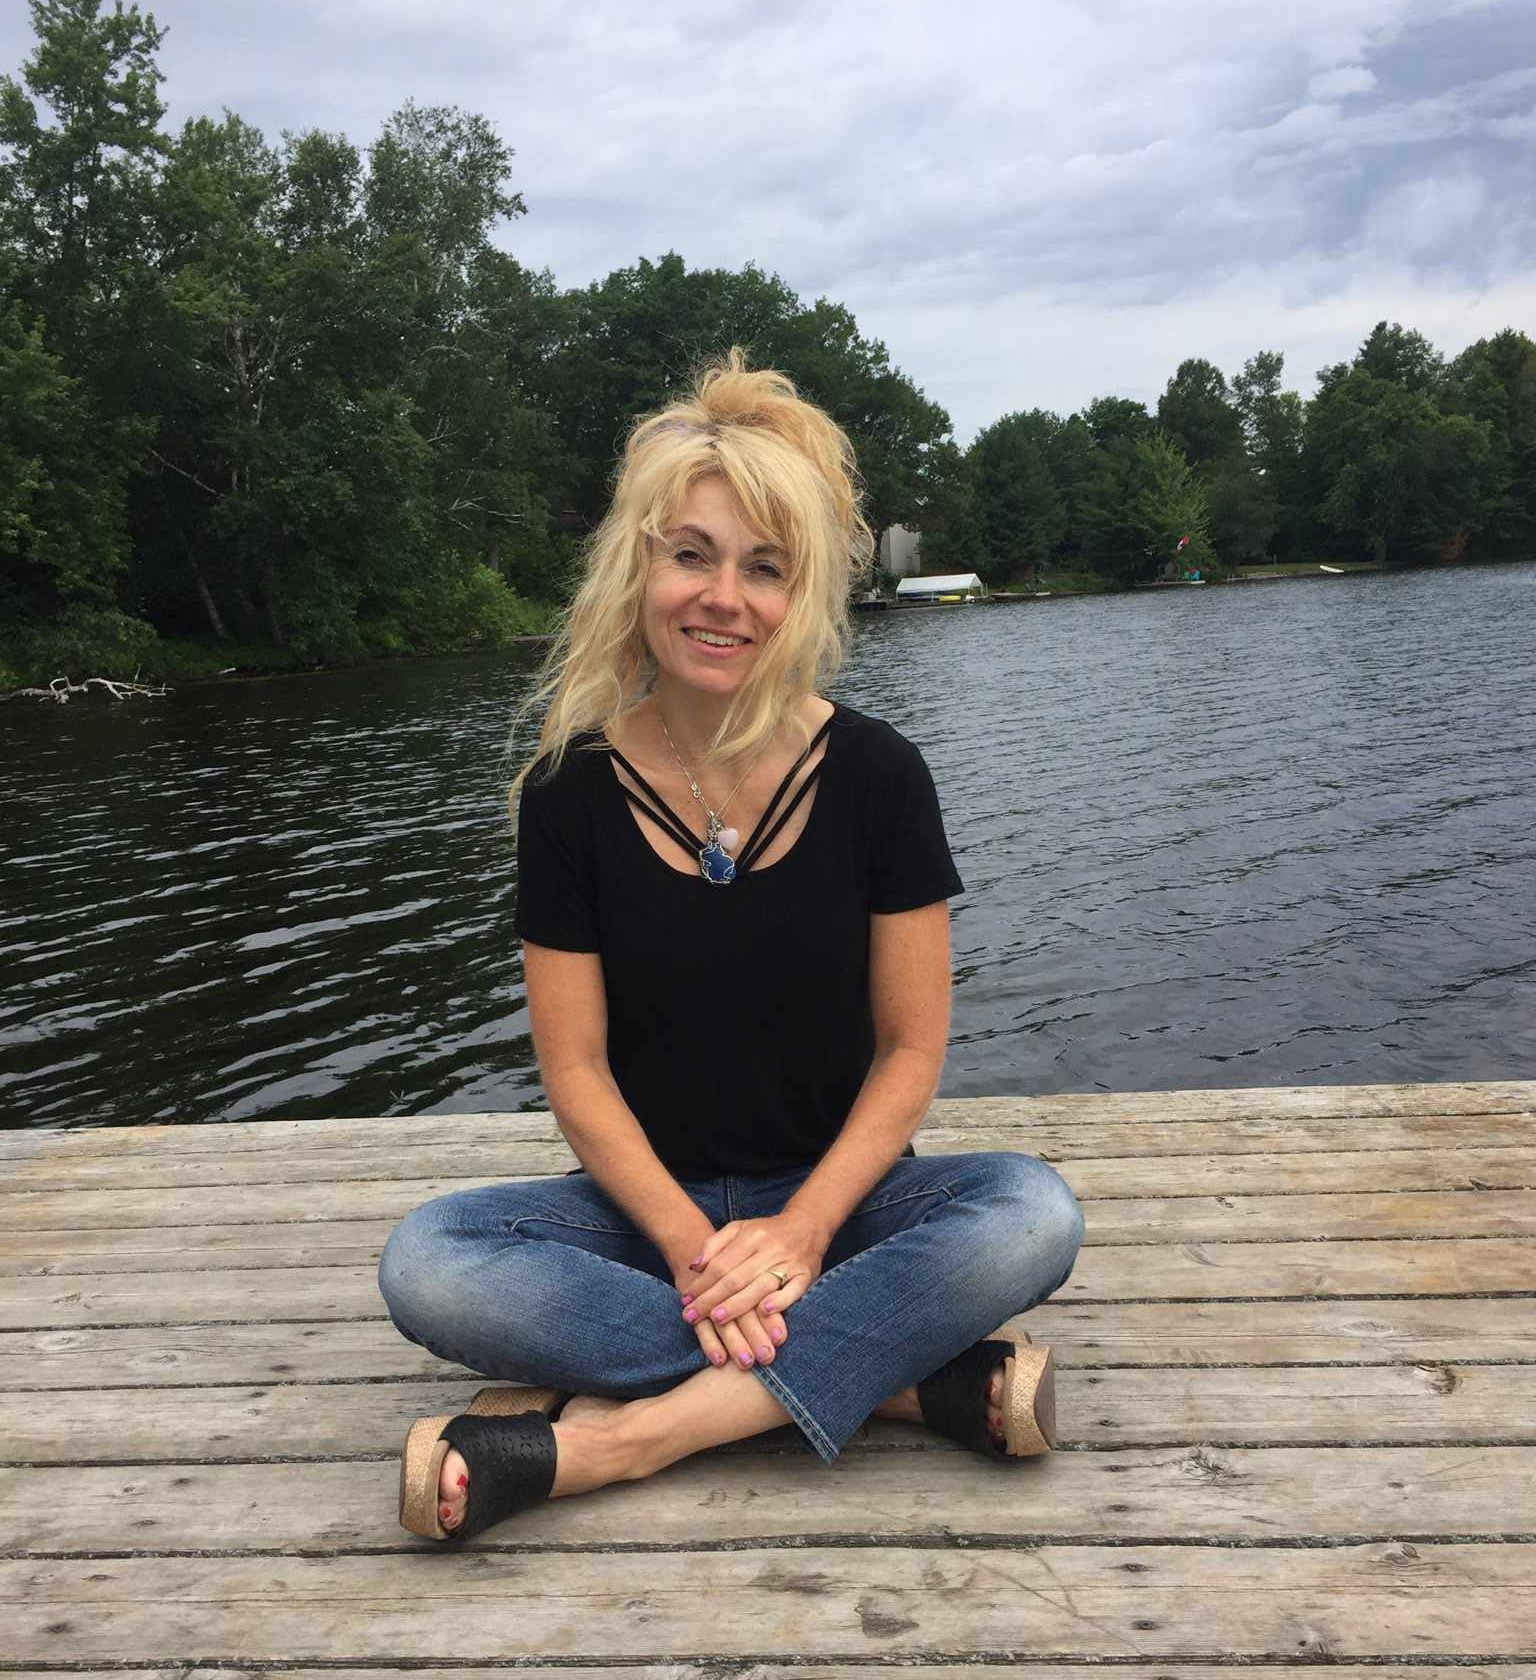
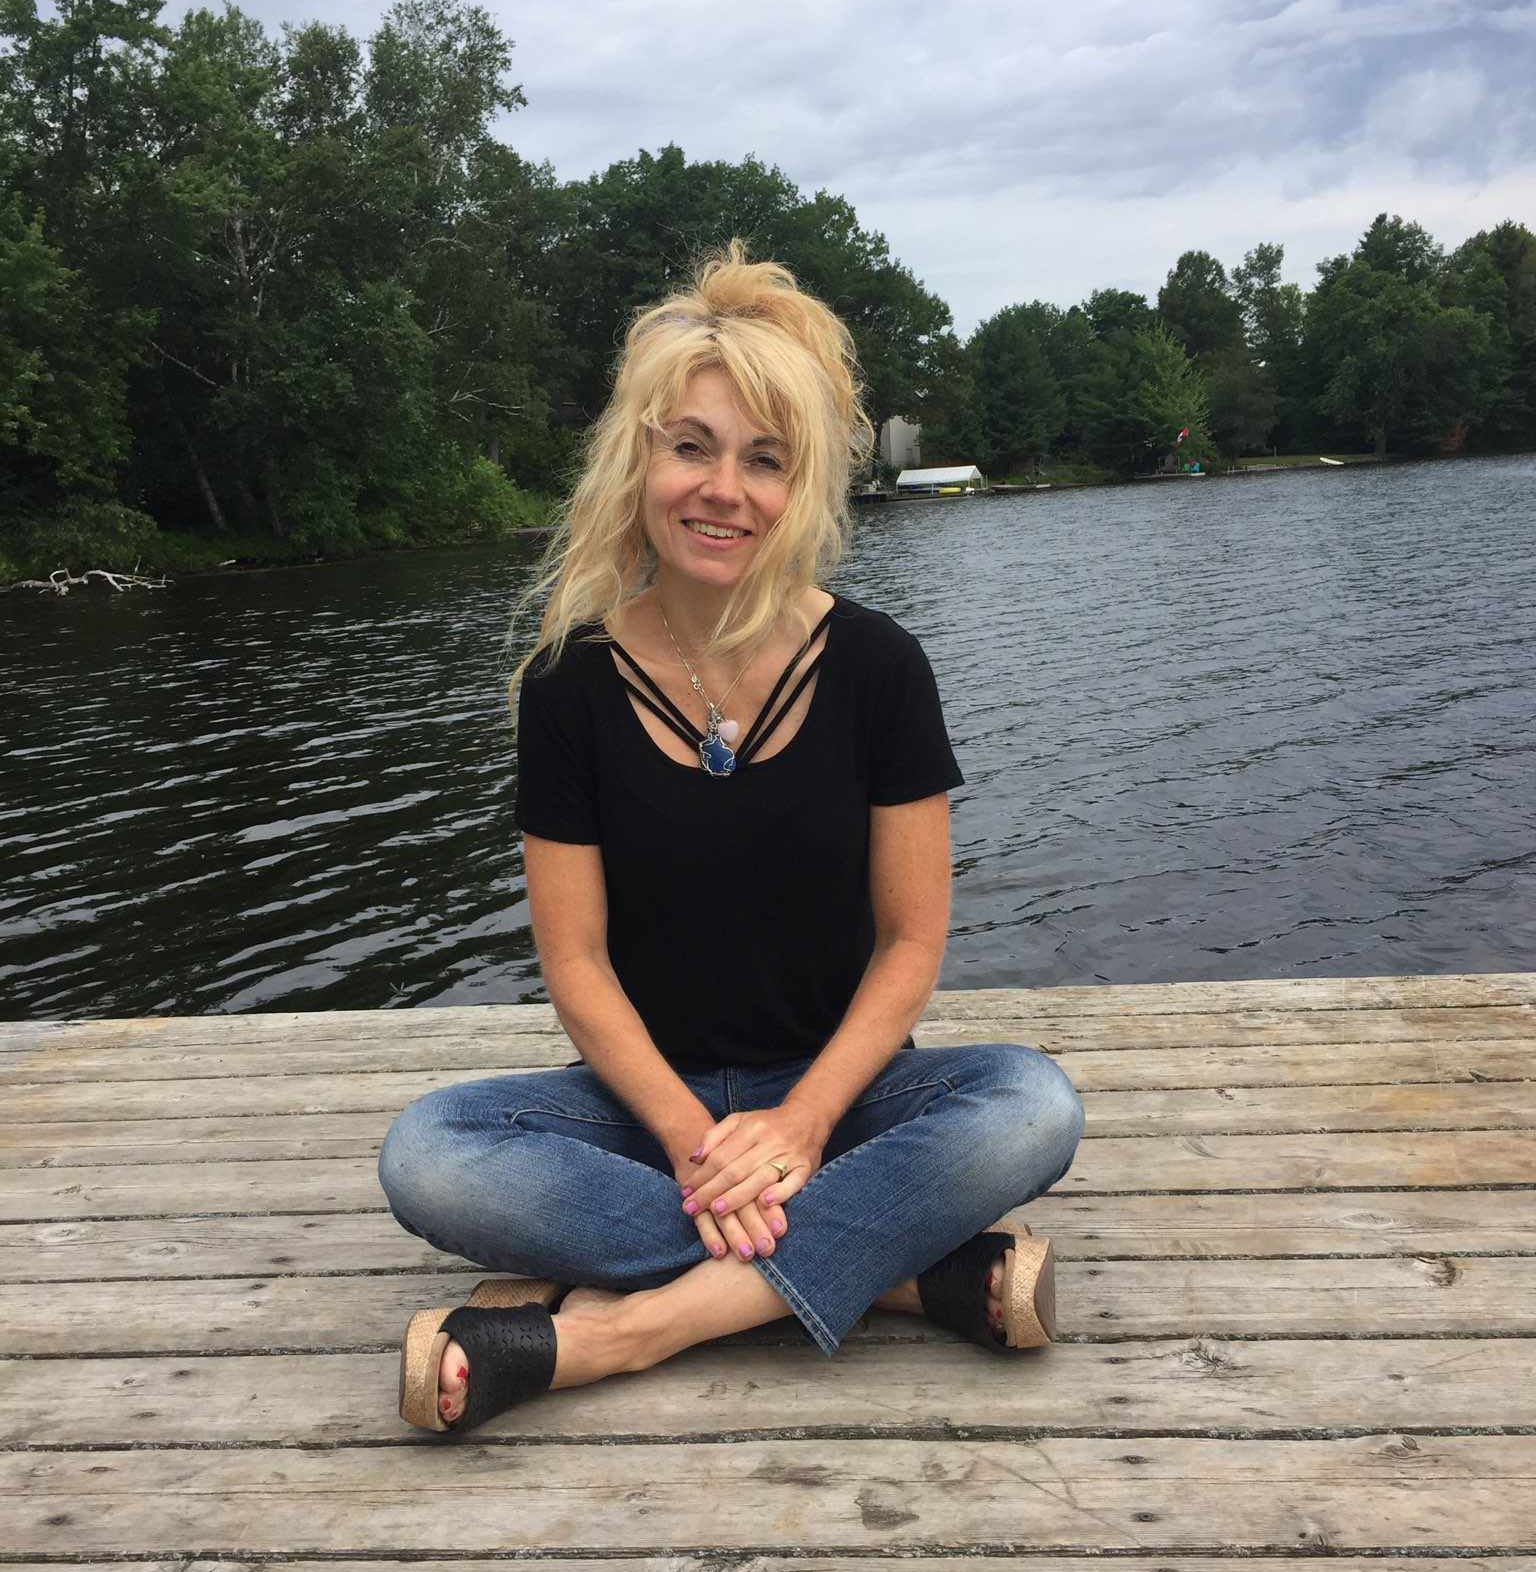
requested edits

diff --git a/index.html b/index.html
@@ -18,6 +18,7 @@
 
   <!-- Custom styles for this template -->
   <link href="css/modern-business.css" rel="stylesheet">
+  <link href="vendor/simple-line-icons/css/simple-line-icons.css" rel="stylesheet">
 
 </head>
 
@@ -37,82 +38,34 @@
                 <a class="nav-link" href="cd.html"  >My CD</a>
               </li>
           <li class="nav-item">
-            <a class="nav-link" href="about.html" >About</a>
-          </li>
-          <li class="nav-item">
             <a class="nav-link" href="events.html" >Events</a>
           </li>
           <li class="nav-item">
-            <a class="nav-link" href="contact.html" >Contact</a>
+            <a class="nav-link" href="video.html" >Videos</a>
           </li>
-          <li class="nav-item dropdown">
+         <!-- <li class="nav-item dropdown">
             <a class="nav-link dropdown-toggle" href="#" id="navbarDropdownBlog" data-toggle="dropdown" aria-haspopup="true" aria-expanded="false" >
               Media
             </a>
             <div class="dropdown-menu dropdown-menu-right" aria-labelledby="navbarDropdownBlog">
-              <a class="dropdown-item" href="video.html">Video</a>
-              <a class="dropdown-item" href="pictures.html">Pictures</a>
-            </div>
-          </li> 
-            <!--
-          
-          <li class="nav-item dropdown">
-            <a class="nav-link dropdown-toggle" href="#" id="navbarDropdownBlog" data-toggle="dropdown" aria-haspopup="true" aria-expanded="false">
-              Other Pages
-            </a>
-            <div class="dropdown-menu dropdown-menu-right" aria-labelledby="navbarDropdownBlog">
-              <a class="dropdown-item" href="full-width.html">Full Width Page</a>
-              <a class="dropdown-item" href="sidebar.html">Sidebar Page</a>
-              <a class="dropdown-item" href="faq.html">FAQ</a>
-              <a class="dropdown-item" href="404.html">404</a>
-              <a class="dropdown-item" href="pricing.html">Pricing Table</a>
+              <a class="dropdown-item" href="video.html">Videos</a>
+             <a class="dropdown-item" href="pictures.html">Pictures</a>
             </div>
           </li> -->
+          
         </ul>
       </div>
     </div>
   </nav>
 
   <header>
-    <div id="carouselExampleIndicators" class="carousel slide" data-ride="carousel">
-      <ol class="carousel-indicators">
-        <li data-target="#carouselExampleIndicators" data-slide-to="0" class="active"></li>
-        <li data-target="#carouselExampleIndicators" data-slide-to="1"></li>
-        <li data-target="#carouselExampleIndicators" data-slide-to="2"></li>
-      </ol>
-      <div class="carousel-inner" role="listbox">
-        <!-- Slide One - Set the background image for this slide in the line below -->
-        <div class="carousel-item active" style="background-image: url('IMG/AnnaPhotoshootEdit (66).jpg')">
-          <!--<div class="carousel-caption d-none d-md-block">
-            <h3>First Slide</h3>
-            <p>This is a description for the first slide.</p>
-          </div> -->
-        </div>
-        <!-- Slide Two - Set the background image for this slide in the line below -->
-        <div class="carousel-item" style="background-image: url('IMG/AnnaPhotoshoot (10).jpg')">
-          <div class="carousel-caption d-none d-md-block">
-            <!--<h3>Second Slide</h3>
-            <p>This is a description for the second slide.</p>-->
-          </div>
-        </div>
-        <!-- Slide Three - Set the background image for this slide in the line below -->
-        <div class="carousel-item" style="background-image: url('IMG/AnnaPhotoshoot (86).jpg')">
-          <div class="carousel-caption d-none d-md-block">
-           <!-- <h3>Third Slide</h3> 
-            <p>This is a description for the third slide.</p>-->
-          </div>
-        </div>
+    <pic style="display: flex; justify-content: center;">
+      <div class="col-lg-8">
+        <img class="img-fluid rounded mb-4" src="IMG/AnnaDockCropped.jpg" alt="">
       </div>
-      <a class="carousel-control-prev" href="#carouselExampleIndicators" role="button" data-slide="prev">
-        <span class="carousel-control-prev-icon" aria-hidden="true"></span>
-        <span class="sr-only">Previous</span>
-      </a>
-      <a class="carousel-control-next" href="#carouselExampleIndicators" role="button" data-slide="next">
-        <span class="carousel-control-next-icon" aria-hidden="true"></span>
-        <span class="sr-only">Next</span>
-      </a>
-    </div>
-  </header>
+    </pic>
+    <!-- /.row -->
+  </header> 
 
   <!-- Page Content -->
   <div class="container">
@@ -125,16 +78,16 @@
         <div class="card h-100">
           <h4 class="card-header" style="font-family:'Great Vibes', Helvetica, sans-serif;"> <font size="200%"> Kirtan </font></h4>
           <div class="card-body">
-            <p class="card-text">Kirtan is a musical form of meditation call and response chanting the chants are in the Ancient language of sanskrit ,  some of these chants have been uttered or sung for thousands of years. The sacred chants bring deep healing, open our hearts, and bring deep peace and stillness within. </p>
+            <p class="card-text">Kirtan is a musical form of meditation call and response chanting. The chants are in the Ancient language of sanskrit ,  some of these chants have been uttered or sung for thousands of years. The sacred chants bring deep healing, open our hearts, and bring deep peace and stillness within. </p>
           </div>
          
         </div>
       </div>
       <div class="col-lg-4 mb-4">
         <div class="card h-100">
-          <h4 class="card-header" style="font-family:'Great Vibes', Helvetica, sans-serif;"> <font size="200%">Yoga </font> </h4>
+          <h4 class="card-header" style="font-family:'Great Vibes', Helvetica, sans-serif;"> <font size="200%">Anna </font> </h4>
           <div class="card-body">
-            <p class="card-text">Lorem ipsum dolor sit amet, consectetur adipisicing elit. Reiciendis ipsam eos, nam perspiciatis natus commodi similique totam consectetur praesentium molestiae atque exercitationem ut consequuntur, sed eveniet, magni nostrum sint fuga.</p>
+            <p class="card-text">Anna began her musical career in her late teens. Singing with the band "The Presence". She moved to Canada at the age of 23 and sang with various bands performing at clubs and festivals. At the age of 29 she attended a yoga retreat in the Bahamas where she was introduced to kirtan. She fell in love with it and upon returning to Canada was guided to her spiritual teacher Guru Mangala Amshumati.</p>
           </div>
           
         </div>
@@ -162,10 +115,17 @@
   <!-- Footer -->
   <footer class="py-5 bg-light">
     <div class="container">
-      <p class="m-0 text-center text-white">Copyright &copy; Anna Lisa Leeming 2019</p>
+        <pic style="display: flex; justify-content: center;">
+            <div class="col-lg-20">
+                <a href="mailto:annaleeming@hotmail.com"><img class="img-fluid rounded mb-4" src="IMG/emailcircleIcon.png" width= "100" alt=""></a> 
+                <a href="tel:905-717-7568"><img class="img-fluid rounded mb-4" src="IMG/Phoneiconfinal.png" width= "100" alt=""></a> 
+            </div>
+          </pic>
+            <p class="m-0 text-center text-white">Copyright &copy; Anna Lisa Leeming 2019</p>
     </div>
     <!-- /.container -->
   </footer>
+
 
   <!-- Bootstrap core JavaScript -->
   <script src="vendor/jquery/jquery.min.js"></script>

diff --git a/events.html b/events.html
@@ -35,16 +35,13 @@
         <li class="nav-item">
               <a class="nav-link" href="cd.html" >My CD</a>
         </li>
-        <li class="nav-item">
-          <a class="nav-link" href="about.html" >About</a>
-        </li>
         <li class="nav-item active">
           <a class="nav-link" href="events.html" >Events</a>
         </li>
         <li class="nav-item">
-          <a class="nav-link" href="contact.html" >Contact</a>
+          <a class="nav-link" href="video.html" >Videos</a>
         </li>
-        <li class="nav-item dropdown">
+        <!--<li class="nav-item dropdown">
           <a class="nav-link dropdown-toggle" href="#" id="navbarDropdownBlog" data-toggle="dropdown" aria-haspopup="true" aria-expanded="false" >
             Media
           </a>
@@ -52,7 +49,7 @@
             <a class="dropdown-item" href="video.html">Video</a>
             <a class="dropdown-item" href="pictures.html">Pitures</a>
           </div>
-        </li>
+        </li> -->
       </ul>
     </div>
   </div>
@@ -78,14 +75,14 @@
       <div class="card-body">
         <div class="row">
           <div class="col-lg-6">
-            <a href="#">
-              <img class="img-fluid rounded" src="http://placehold.it/750x300" alt="">
-            </a>
+            
+              <img class="img-fluid rounded" src="IMG/guitarsinger.png" width= "300" alt="">
+           
           </div>
           <div class="col-lg-6">
-            <h2 class="card-title">Post Title</h2>
+            <h2 class="card-title">Next Event</h2>
             <p class="card-text">Lorem ipsum dolor sit amet, consectetur adipisicing elit. Reiciendis aliquid atque, nulla? Quos cum ex quis soluta, a laboriosam. Dicta expedita corporis animi vero voluptate voluptatibus possimus, veniam magni quis!</p>
-            <a href="#" class="btn btn-primary">Read More &rarr;</a>
+           <!-- <a href="#" class="btn btn-primary">Event Page &rarr;</a> -->
           </div>
         </div>
       </div>
@@ -95,7 +92,7 @@
       </div>
     </div>
 
-    <!-- Blog Post -->
+    <!--
     <div class="card mb-4">
       <div class="card-body">
         <div class="row">
@@ -117,7 +114,7 @@
       </div>
     </div>
 
-    <!-- Blog Post -->
+    
     <div class="card mb-4">
       <div class="card-body">
         <div class="row">
@@ -139,7 +136,7 @@
       </div>
     </div>
 
-    <!-- Blog Post -->
+    
     <div class="card mb-4">
       <div class="card-body">
         <div class="row">
@@ -161,12 +158,13 @@
       </div>
     </div>
 
+  -->
     <!-- Pagination -->
-    <ul class="pagination justify-content-center mb-4">
+    <!--<ul class="pagination justify-content-center mb-4">
       <li class="page-item disabled">
         <a class="page-link" href="#">Older &rarr;</a>
       </li>
-    </ul>
+    </ul> -->
 
   </div>
 
@@ -174,7 +172,7 @@
   <!-- /.container -->
 
   <!-- Footer -->
-  <footer class="py-5 bg-dark">
+  <footer class="py-5 bg-light">
     <div class="container">
       <p class="m-0 text-center text-white">Copyright &copy; Anna Lisa Leeming 2019</p>
     </div>

diff --git a/video.html b/video.html
@@ -36,23 +36,20 @@
                 <a class="nav-link" href="cd.html" >My CD</a>
           </li>
           <li class="nav-item">
-            <a class="nav-link" href="about.html" >About</a>
-          </li>
-          <li class="nav-item">
             <a class="nav-link" href="events.html" >Events</a>
           </li>
           <li class="nav-item">
-            <a class="nav-link" href="contact.html" >Contact</a>
+            <a class="nav-link" href="video.html" >Videos</a>
           </li>
-          <li class="nav-item dropdown active">
+         <!-- <li class="nav-item dropdown">
             <a class="nav-link dropdown-toggle" href="#" id="navbarDropdownBlog" data-toggle="dropdown" aria-haspopup="true" aria-expanded="false" >
-             Media
+              Media
             </a>
             <div class="dropdown-menu dropdown-menu-right" aria-labelledby="navbarDropdownBlog">
-              <a class="dropdown-item" href="video.html">Video</a>
-              <a class="dropdown-item" href="pictures.html">Pictures</a>
+              <a class="dropdown-item" href="video.html">Videos</a>
+             <a class="dropdown-item" href="pictures.html">Pictures</a>
             </div>
-          </li>
+          </li> -->
         </ul>
       </div>
     </div>

diff --git a/cd.html b/cd.html
@@ -36,23 +36,20 @@
                         <a class="nav-link" href="cd.html" >My CD</a>
                       </li>
           <li class="nav-item">
-            <a class="nav-link" href="about.html" >About</a>
-          </li>
-          <li class="nav-item">
             <a class="nav-link" href="events.html" >Events</a>
           </li>
           <li class="nav-item">
-            <a class="nav-link" href="contact.html" >Contact</a>
+            <a class="nav-link" href="video.html" >Videos</a>
           </li>
-          <li class="nav-item dropdown">
+         <!-- <li class="nav-item dropdown">
             <a class="nav-link dropdown-toggle" href="#" id="navbarDropdownBlog" data-toggle="dropdown" aria-haspopup="true" aria-expanded="false" >
               Media
             </a>
             <div class="dropdown-menu dropdown-menu-right" aria-labelledby="navbarDropdownBlog">
-              <a class="dropdown-item" href="video.html">Video</a>
-              <a class="dropdown-item" href="pictures.html">Pictures</a>
+              <a class="dropdown-item" href="video.html">Videos</a>
+             <a class="dropdown-item" href="pictures.html">Pictures</a>
             </div>
-          </li>
+          </li> -->
         </ul>
       </div>
     </div>

diff --git a/mystyle.css b/mystyle.css
@@ -10,6 +10,13 @@ color :white;
 background-color: /*rgb(221, 168, 247,0.6); */
 }
 
+
+pic.center {
+  margin-left:auto;
+    margin-right:auto;
+    text-align: center;
+}
+
 .centeredstuff {
 
   text-align: center;
